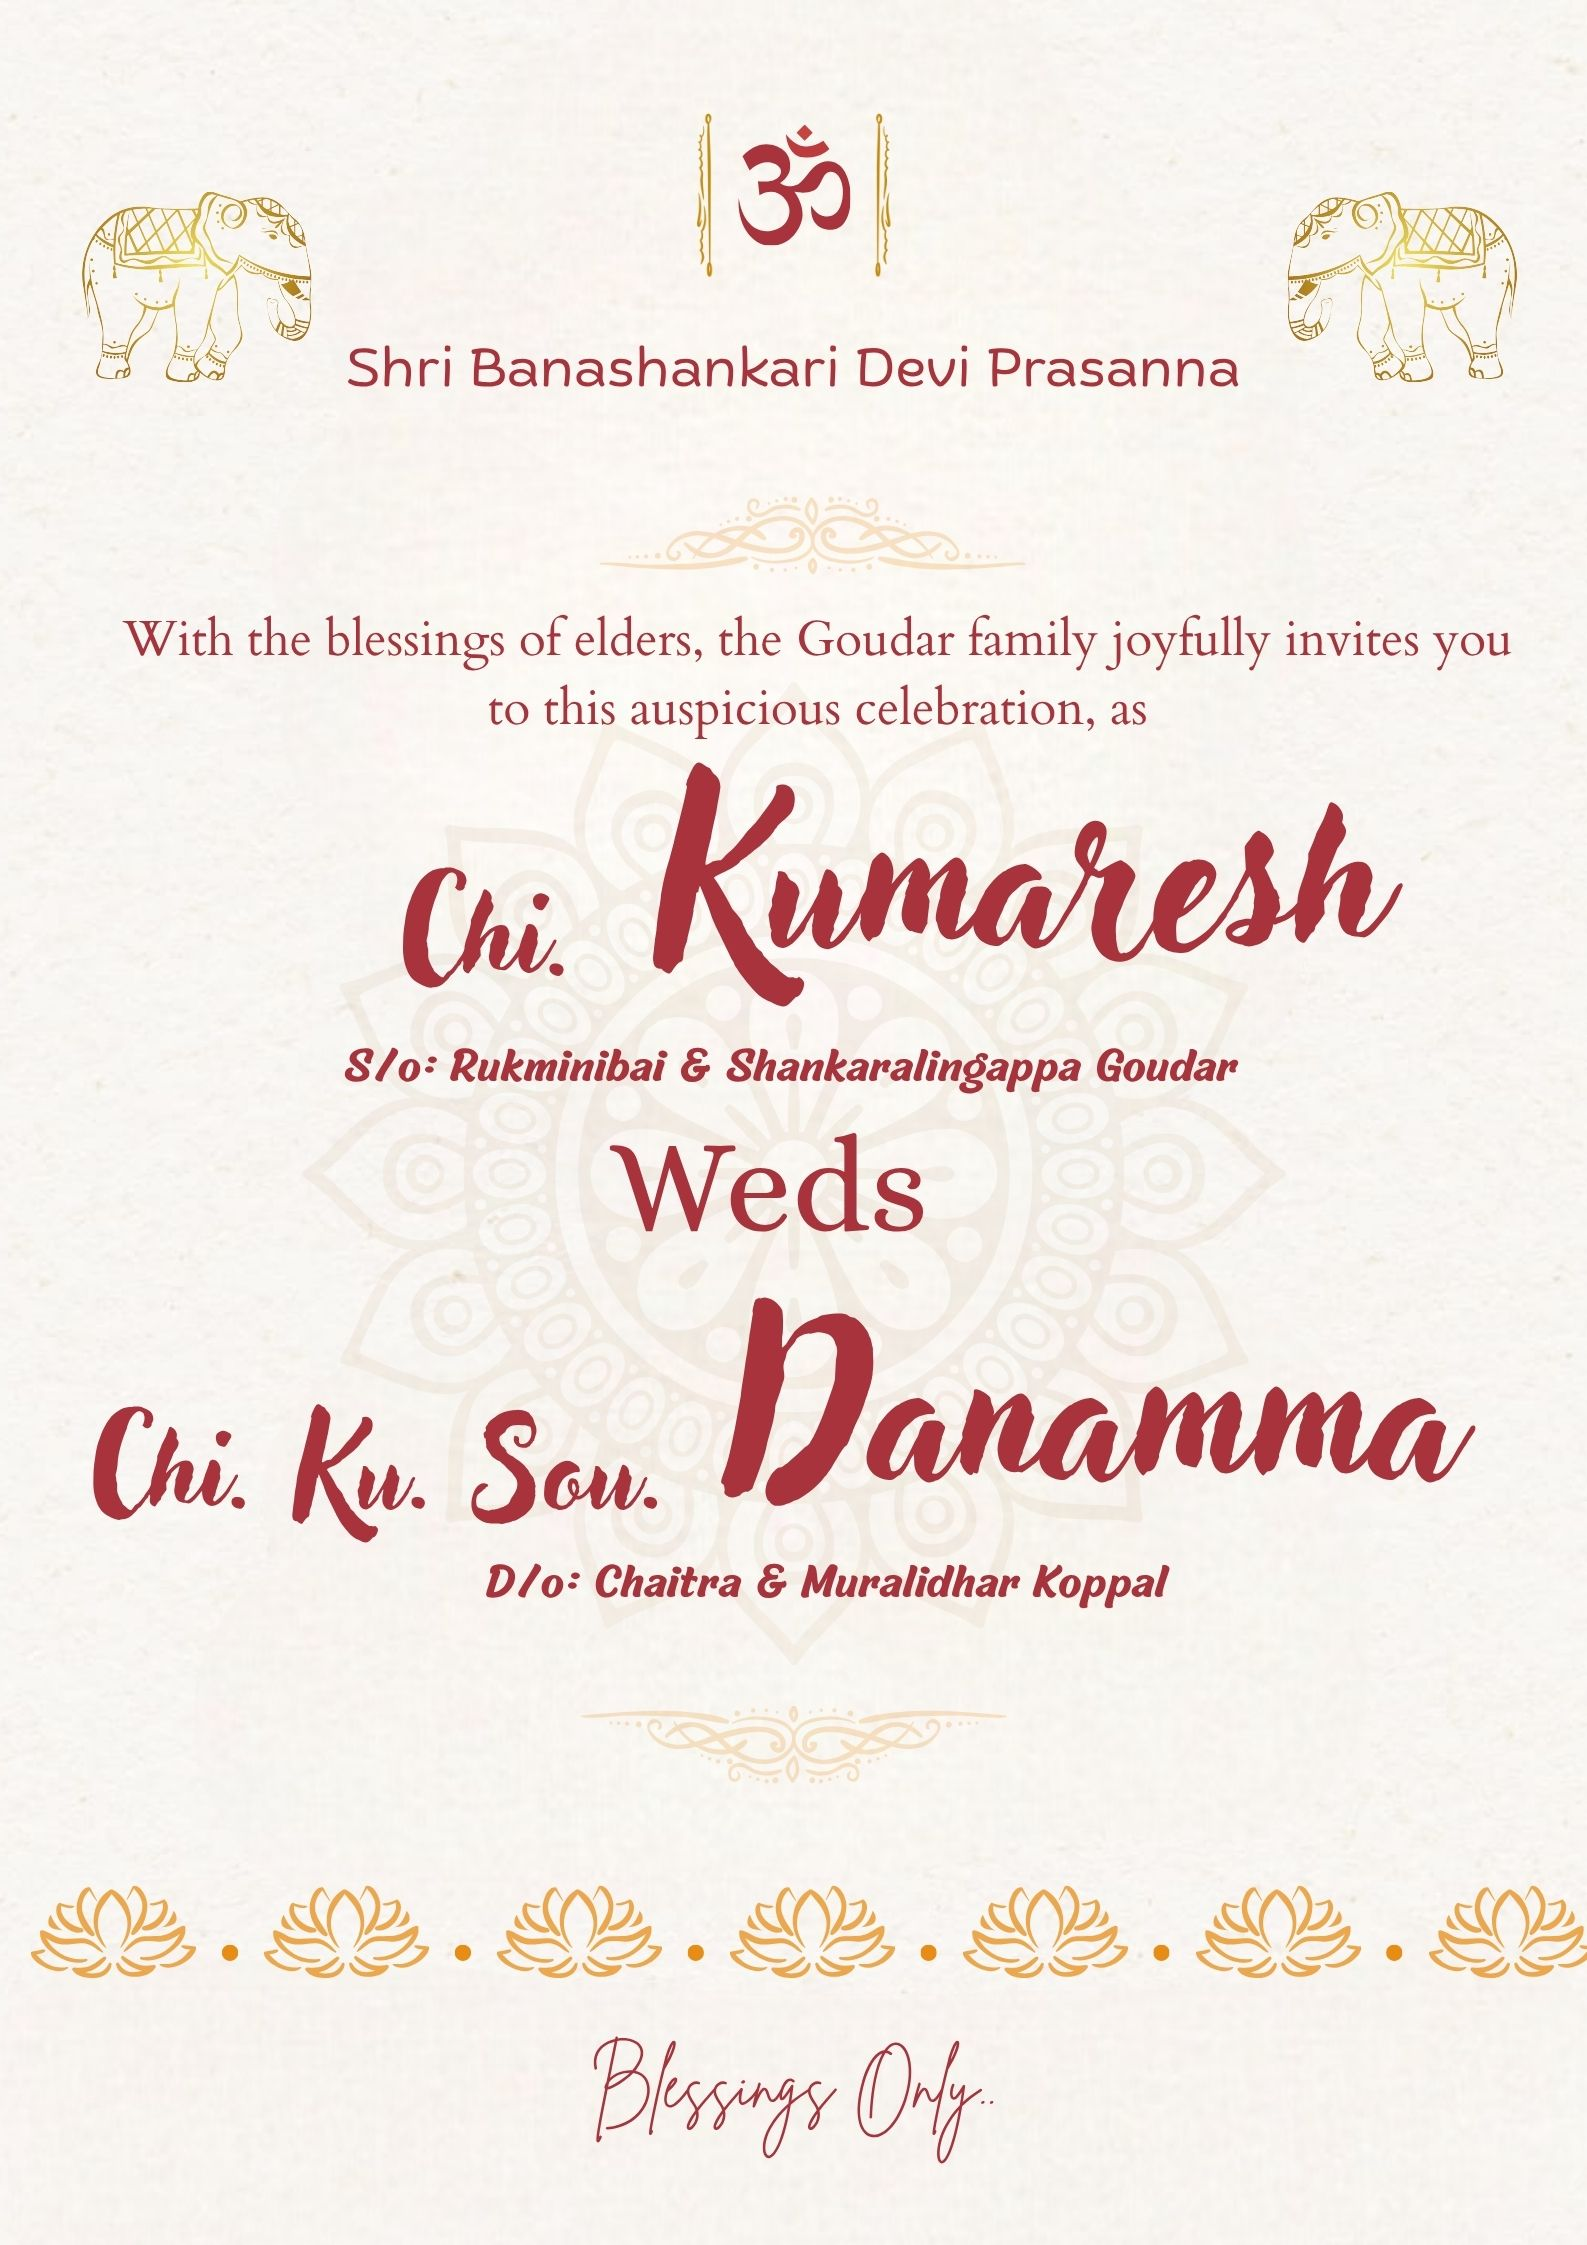
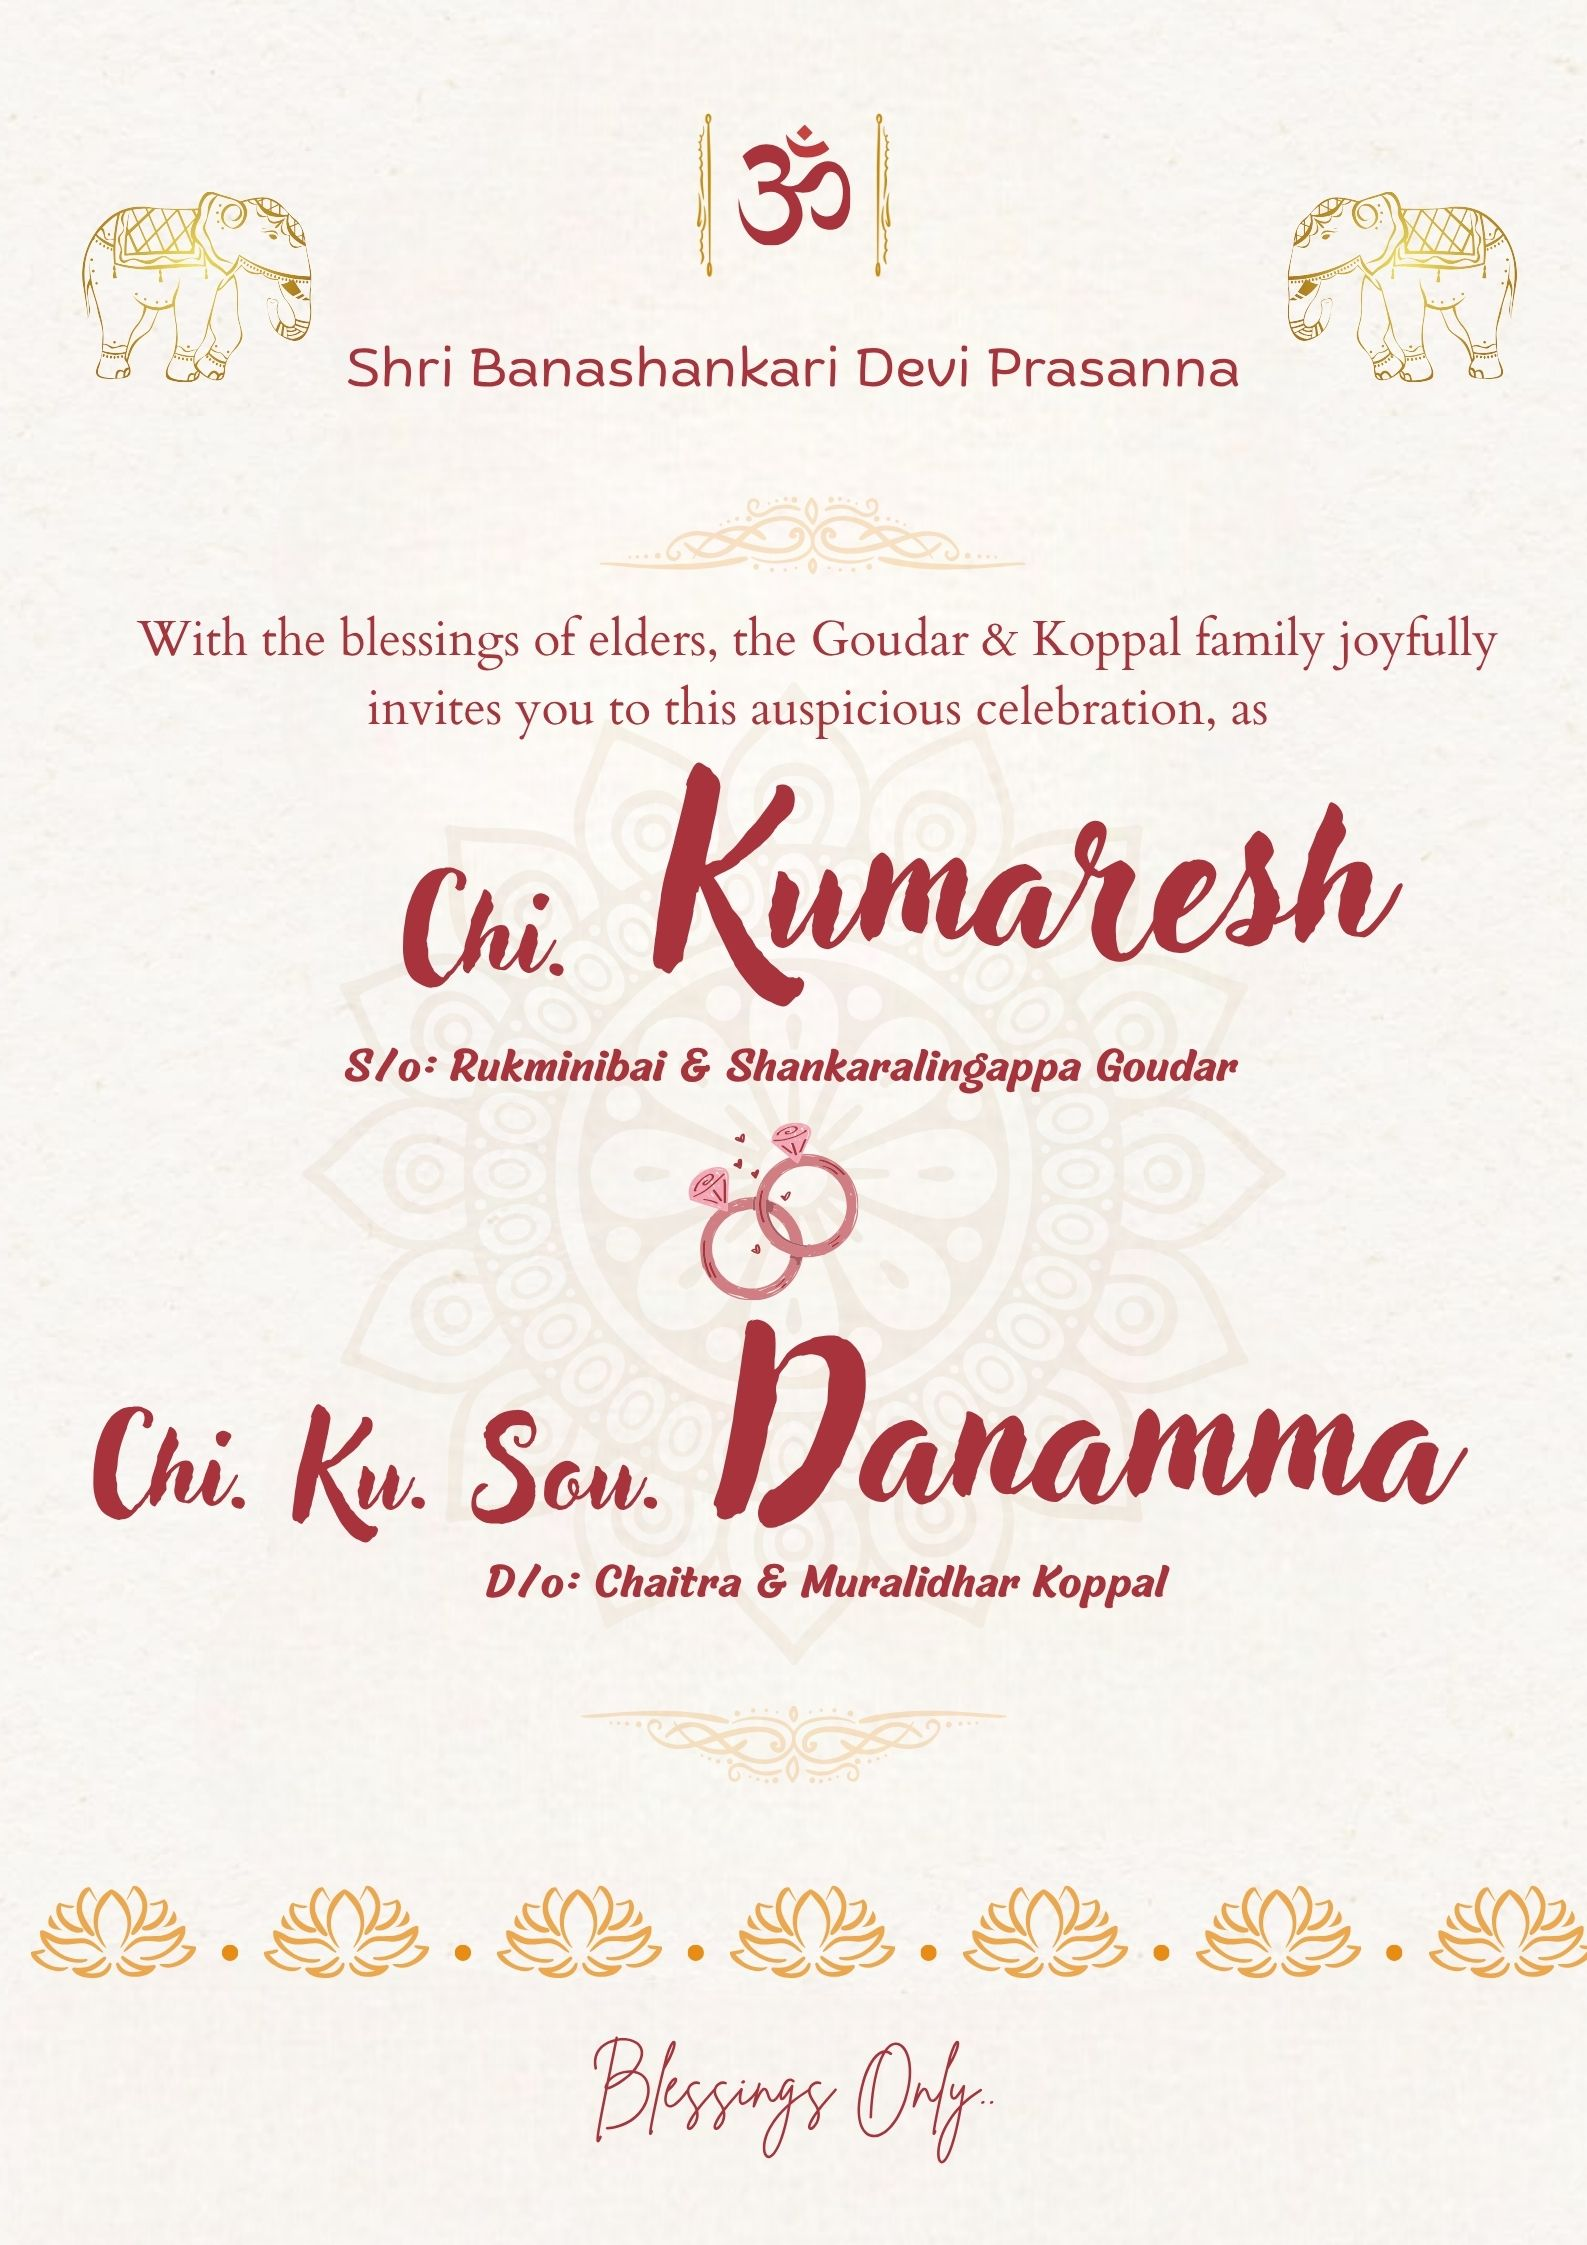
Client new Corrections

Changed region(s): [[0.3705, 0.4989, 0.9263, 0.686], [0.0926, 0.2806, 0.9572, 0.343]]

diff --git a/index.html b/index.html
@@ -59,7 +59,7 @@
     <div class="info-grid">
 
       <!-- Map -->
-      <iframe src="https://www.google.com/maps/embed?pb=!1m18!1m12!1m3!1d957.0308458648276!2d75.58443776301401!3d16.367675973123955!2m3!1f0!2f0!3f0!3m2!1i1024!2i768!4f13.1!3m3!1m2!1s0x3bc77314af8e3505%3A0x79dd088f7703bb81!2z4LK24LON4LKw4LOAIOCyrOCyqOCytuCyguCyleCysOCyvyDgsqbgs4fgsrXgsrjgs43gsqXgsr7gsqgg4LKo4LK-4LKX4LKw4LK-4LKz!5e0!3m2!1sen!2sin!4v1776513122074!5m2!1sen!2sin" width="600" height="450" style="border:0;" allowfullscreen="" loading="lazy" referrerpolicy="no-referrer-when-downgrade"></iframe>">
+      <iframe src="https://www.google.com/maps/embed?pb=!1m18!1m12!1m3!1d957.0308458648276!2d75.58443776301401!3d16.367675973123955!2m3!1f0!2f0!3f0!3m2!1i1024!2i768!4f13.1!3m3!1m2!1s0x3bc77314af8e3505%3A0x79dd088f7703bb81!2z4LK24LON4LKw4LOAIOCyrOCyqOCytuCyguCyleCysOCyvyDgsqbgs4fgsrXgsrjgs43gsqXgsr7gsqgg4LKo4LK-4LKX4LKw4LK-4LKz!5e0!3m2!1sen!2sin!4v1776513122074!5m2!1sen!2sin" width="600" height="450" style="border:0;" allowfullscreen="" loading="lazy" referrerpolicy="no-referrer-when-downgrade"></iframe>
 
       <!-- Text -->
       <div class="info-text">
@@ -69,7 +69,7 @@
         Your gracious presence will be a blessing to us<br>
         and will add joy to this special occasion.<br><br>
         With warm regards<br>
-        Goudar Family & Friends
+        Goudar and Koppal Families & Friends
         </p>
 
         <button onclick="openMap()">View Location</button>

diff --git a/script.js b/script.js
@@ -7,10 +7,10 @@ window.addEventListener("load", () => {
 const params = new URLSearchParams(window.location.search);
 const type = params.get("c");
 
-let names = "Kumaresh & Danamma";
+let names = "Kumaresh 💍 Danamma";
 
 if (type === "bride") {
-  names = "Danamma & Kumaresh";
+  names = "Danamma 💍 Kumaresh";
 }
 
 document.getElementById("names").innerText = names;
